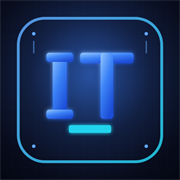
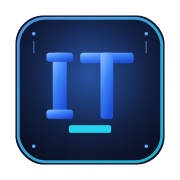
Fix icones transparentes + cache v18

diff --git a/sw.js b/sw.js
@@ -2,7 +2,7 @@
 // Le cache est invalidé automatiquement quand script.js ou style.css changent
 // (network-first sur les assets principaux, cache-first sur les icônes)
 
-const CACHE_NAME = "revision-it-v17";
+const CACHE_NAME = "revision-it-v18";
 const STATIC_ASSETS = [
   "./index.html",
   "./style.css",